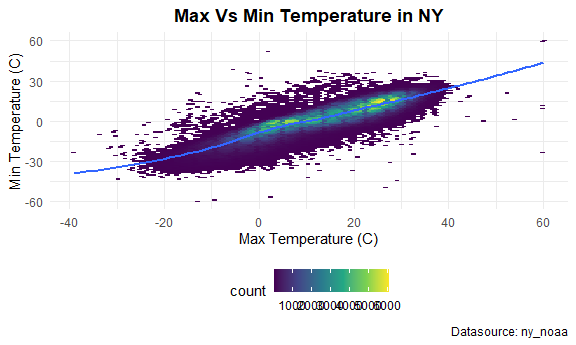
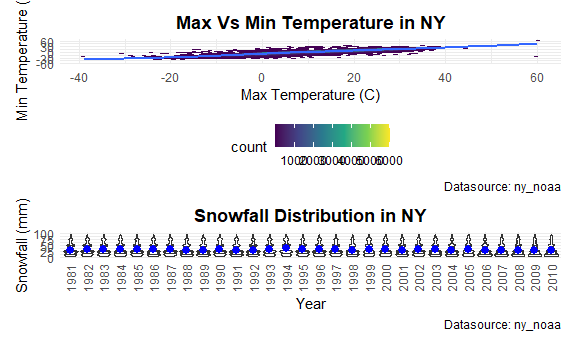
fourth commit - modified two seperate plot as one two-panel plot

diff --git a/p8105_hw3_kl3069.md b/p8105_hw3_kl3069.md
@@ -29,6 +29,7 @@ Kyung Suk Lee
 
 ``` r
 library(tidyverse)
+library(patchwork)
 library(p8105.datasets)
 
 knitr::opts_chunk$set(
@@ -500,7 +501,8 @@ clean_ny_noaa %>%
 ### 3-3) Make a two-panel plot (2)
 
 ``` r
-clean_ny_noaa %>% 
+temp_plot = 
+  clean_ny_noaa %>% 
   ggplot(aes(x = tmax, y = tmin)) +
   geom_hex(bins = 100) +
   geom_smooth(se = FALSE) +
@@ -513,12 +515,9 @@ clean_ny_noaa %>%
   theme(plot.title = element_text(face="bold",
                                   hjust=0.5,
                                   lineheight=1.2))
-```
 
-<img src="p8105_hw3_kl3069_files/figure-gfm/two_panel_plot_2-1.png" width="90%" />
-
-``` r
-clean_ny_noaa %>% 
+snow_plot = 
+  clean_ny_noaa %>% 
   filter(snow > 0 & snow < 100) %>% 
   mutate(year = factor(year)) %>% 
   ggplot(aes(x = year, y = snow)) +
@@ -534,6 +533,8 @@ clean_ny_noaa %>%
   theme(plot.title = element_text(face="bold",
                                   hjust=0.5,
                                   lineheight=1.2))
+
+temp_plot / snow_plot
 ```
 
-<img src="p8105_hw3_kl3069_files/figure-gfm/two_panel_plot_3-1.png" width="90%" />
+<img src="p8105_hw3_kl3069_files/figure-gfm/two_panel_plot_2-1.png" width="90%" />
